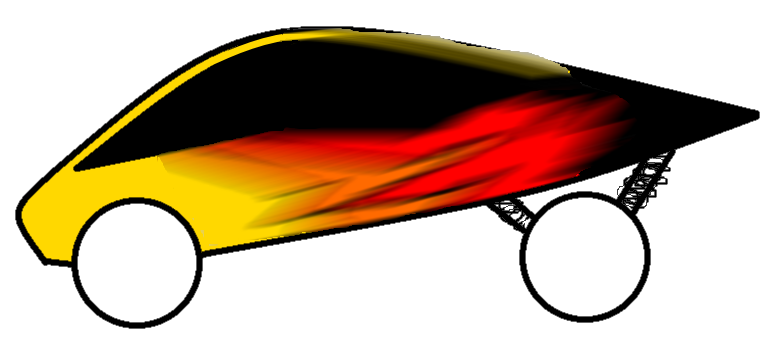
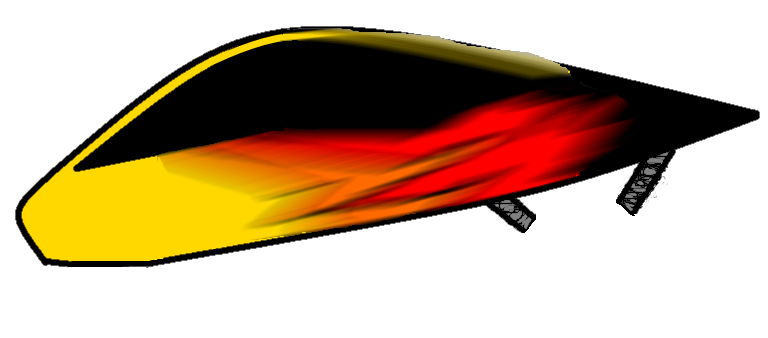
Adding wheels to the car on the main menu.

Changed region(s): [[0.0938, 0.5621, 0.2812, 0.9763], [0.6562, 0.4438, 0.875, 0.9763]]

diff --git a/src/Screens/MainMenu.java b/src/Screens/MainMenu.java
@@ -7,6 +7,8 @@ import java.awt.Rectangle;
 import java.awt.event.MouseEvent;
 import java.awt.event.MouseListener;
 import java.awt.event.MouseMotionListener;
+import java.awt.geom.AffineTransform;
+import java.awt.image.AffineTransformOp;
 import java.awt.image.BufferedImage;
 import java.io.File;
 import java.io.IOException;
@@ -30,22 +32,25 @@ public class MainMenu implements Page, MouseMotionListener, MouseListener {
 	private static BufferedImage CAR_IMAGE;
 	private static BufferedImage BACKGROUND_MOUNTAIN_IMAGE;
 	private static BufferedImage BACKGROUND_TREE_IMAGE;
-	
+	private static BufferedImage WHEEL_IMAGE;
+
 	private int mouseX = 0;
 	private int mouseY = 0;
 	private boolean click = false;
 
 	MainFrame mainframe;
 	List<Entity> menuElements;
-	
+
 	static Page nextPage = null; // Making this static for now to get the menu working. Should move this to an instance variable.
-	
+
 	// We'll load the pictures once here, so we don't have to re-load them each time we create an object
+	// TODO: move these inte their respective classes
 	static {
 		try {
 			CAR_IMAGE = ImageIO.read(new File("src/Images/car.png"));
 			BACKGROUND_MOUNTAIN_IMAGE = ImageIO.read(new File("src/Images/mainMenuBackgroundMountains.png"));
 			BACKGROUND_TREE_IMAGE = ImageIO.read(new File("src/Images/mainMenuBackgroundTrees.png"));
+			WHEEL_IMAGE = ImageIO.read(new File("src/Images/wheel.png"));
 		} catch (IOException e) {
 			System.out.println("Error: Could not find image file.");
 			e.printStackTrace();
@@ -71,6 +76,8 @@ public class MainMenu implements Page, MouseMotionListener, MouseListener {
 		menuElements.add(new ScrollingImage(BACKGROUND_TREE_IMAGE, -20, 0));
 		menuElements.add(new ScrollingImage(BACKGROUND_TREE_IMAGE, -20, -BACKGROUND_TREE_IMAGE.getWidth()));
 		menuElements.add(new Car(CAR_IMAGE, 500, 440, 100, 100));
+		menuElements.add(new Wheel(550,605));
+		menuElements.add(new Wheel(995,605));
 		menuElements.add(new MenuElement("Deseroth Racer", TITLE_TEXT_X_OFFSET, TITLE_TEXT_Y_OFFSET, TITLE_TEXT_SIZE, false, null));
 		menuElements.add(new MenuElement("Play", MENU_TEXT_X_OFFSET, MENU_TEXT_Y_OFFSET+MENU_TEXT_SPACING*1, MENU_TEXT_SIZE, true, new Race(mainframe)));
 		menuElements.add(new MenuElement("Options", MENU_TEXT_X_OFFSET, MENU_TEXT_Y_OFFSET+MENU_TEXT_SPACING*2, MENU_TEXT_SIZE, true, new Options(mainframe)));
@@ -82,7 +89,7 @@ public class MainMenu implements Page, MouseMotionListener, MouseListener {
 	private Page loop() {
 		while(true) {
 			long time = System.nanoTime();
-			
+
 			// Check Collisions (brute force) and update
 			for (Entity a : menuElements) {
 				Rectangle aRect = a.getRectangle();
@@ -99,25 +106,25 @@ public class MainMenu implements Page, MouseMotionListener, MouseListener {
 					if(bRect == null) {
 						continue; // For some entities we don't care about collisions
 					}
-					
+
 					if (aRect.intersects(bRect)) {
 						thingsCollidingWithA.add(b);
 					}
 				}
-				
+
 				// Now that we know everything that is colliding with this entity, we'll have the entity update itself
 				a.update(thingsCollidingWithA);
 			}
-			
+
 			// Add/Remove any Entities from the Page (We do this here to avoid concurrent modification Exceptions).
 			menuElements.removeAll(toRemove);
 			toRemove.clear();
 			menuElements.addAll(toAdd);
 			toAdd.clear();
-			
+
 			// Draw all the things
 			mainframe.drawEntities(menuElements);
-			
+
 			// Should we go to the next page???
 			if(nextPage != null) {
 				Page toReturn = nextPage;
@@ -250,7 +257,7 @@ public class MainMenu implements Page, MouseMotionListener, MouseListener {
 			return null; // We don't want to waste compute power calculating collisions for these particals
 			//return new Rectangle(x,y,img.getWidth(),img.getHeight());
 		}
-		
+
 	}
 
 	class ScrollingImage implements Entity {
@@ -266,7 +273,7 @@ public class MainMenu implements Page, MouseMotionListener, MouseListener {
 			this.x = startingX;
 			this.speed = speed;
 		}
-		
+
 		ScrollingImage(BufferedImage image, int speed, int startingX) {
 			img = image;
 			this.x = startingX;
@@ -293,9 +300,9 @@ public class MainMenu implements Page, MouseMotionListener, MouseListener {
 			return new Rectangle(x,y,img.getWidth(),img.getHeight());
 		}
 	}
-	
+
 	class PieceOfDust implements Entity {
-		
+
 		int x;
 		int y;
 		double xVel = 20 + ((3-Math.random()*4));
@@ -305,7 +312,7 @@ public class MainMenu implements Page, MouseMotionListener, MouseListener {
 		int translucency = 255;
 		Color c = new Color(139,69,19,translucency);
 		int SIZE = (int) (Math.random()*10);
-		
+
 		PieceOfDust(int x, int y) {
 			this.x = x;
 			this.y = y;
@@ -337,15 +344,47 @@ public class MainMenu implements Page, MouseMotionListener, MouseListener {
 		public Rectangle getRectangle() {
 			return new Rectangle(x,y,SIZE,SIZE);
 		}
-		
+
 	}
-	
-	// This is just a dot that follows the mouse pointer. It is used to detect a mouse collision with a menu element.
-	class MousePointer implements Entity {
-		
+
+	class Wheel implements Entity {
+
 		int x;
 		int y;
-		
+		double angle = 0; // rad
+		double rotationalVelocity = Math.toRadians(-35); // rad
+		BufferedImage img = MainMenu.WHEEL_IMAGE;
+
+		Wheel(int x, int y) {
+			this.x = x;
+			this.y = y;
+		}
+
+		@Override
+		public void draw(Graphics g) {
+			AffineTransform tx = AffineTransform.getRotateInstance(angle, Math.ceil(img.getHeight()/2), Math.ceil(img.getWidth()/2));
+			AffineTransformOp op = new AffineTransformOp(tx, AffineTransformOp.TYPE_BILINEAR);
+			g.drawImage(op.filter(img, null), x, y, null);
+		}
+
+		@Override
+		public void update(List<Screens.Entity> collisions) {
+			angle = (angle + rotationalVelocity); // The growth of angle is unbounded here... probably is not an issue
+		}
+
+		@Override
+		public Rectangle getRectangle() {
+			return new Rectangle(x,y,img.getHeight(), img.getWidth());
+		}
+
+	}
+
+	// This is just a dot that follows the mouse pointer. It is used to detect a mouse collision with a menu element.
+	class MousePointer implements Entity {
+
+		int x;
+		int y;
+
 		private final int SIZE = 2;
 
 		@Override

diff --git a/src/Screens/RaceResults.java b/src/Screens/RaceResults.java
@@ -12,7 +12,6 @@ import java.util.LinkedList;
 import java.util.List;
 
 import Racer.Racer;
-import Screens.Credits.TextElement;
 
 public class RaceResults implements Page, MouseMotionListener, MouseListener {
 
